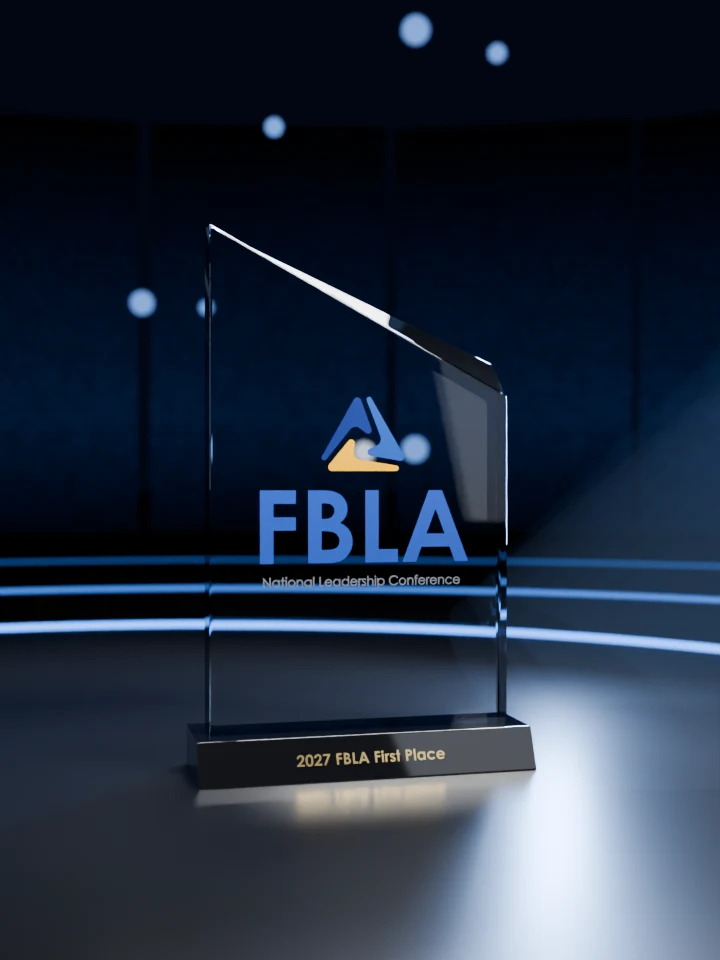
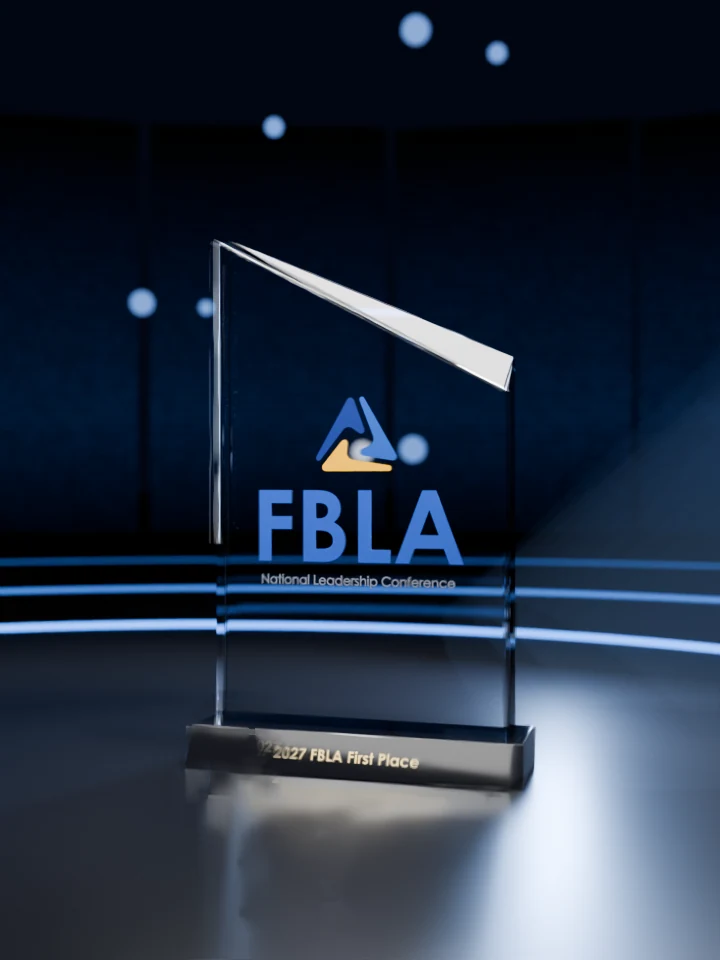
Smoother trophy sway on the DECA and FBLA pages: 33 angles instead of 9, softer spring

Changed region(s): [[0.2444, 0.2188, 0.7639, 1.0]]

diff --git a/web/src/components/site/TrophyHero.tsx b/web/src/components/site/TrophyHero.tsx
@@ -4,7 +4,7 @@ import { useEffect, useRef } from "react";
 import { asset } from "@/lib/asset";
 import styles from "./TrophyHero.module.css";
 
-const COUNT = 9;
+const COUNT = 33; // 9 rendered angles with 3 interpolated frames between each pair
 
 /** The track's trophy, rendered with a transparent background, swaying slowly and following the pointer. */
 export default function TrophyHero({ track }: { track: "deca" | "fbla" }) {
@@ -32,7 +32,7 @@ export default function TrophyHero({ track }: { track: "deca" | "fbla" }) {
     let w = 0, h = 0, dpr = 1;
 
     const resize = () => {
-      dpr = Math.min(devicePixelRatio || 1, 2);
+      dpr = Math.min(devicePixelRatio || 1, 1.5);
       w = wrap.clientWidth;
       h = wrap.clientHeight;
       canvas.width = Math.round(w * dpr);
@@ -61,7 +61,7 @@ export default function TrophyHero({ track }: { track: "deca" | "fbla" }) {
         const idle = reduced ? 0 : Math.sin((now - t0) / 2600) * 0.55;
         const goal = hovering ? target : idle;
         // a damped spring: the trophy eases toward the pointer and settles without snapping
-        const K = 38, C = 2 * Math.sqrt(K) * 0.92;
+        const K = 30, C = 2 * Math.sqrt(K) * 1.0;
         vel += (K * (goal - angle) - C * vel) * dt;
         angle += vel * dt;
         tiltVel += (K * ((hovering ? targetY : 0) - tiltY) - C * tiltVel) * dt;
